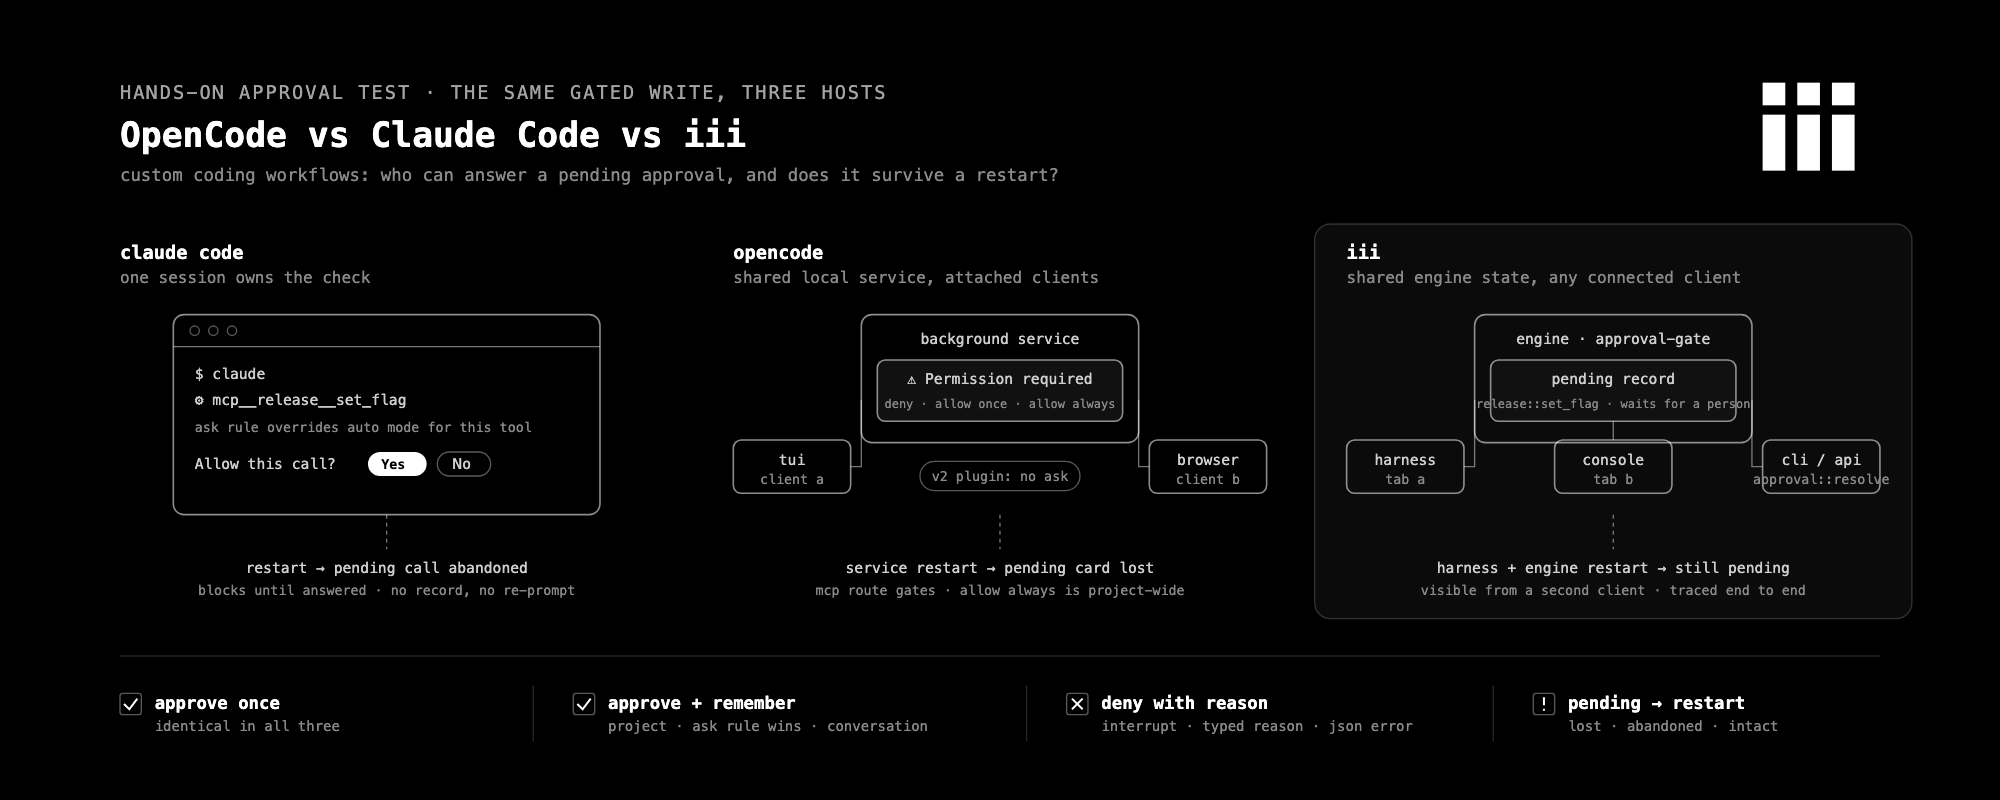
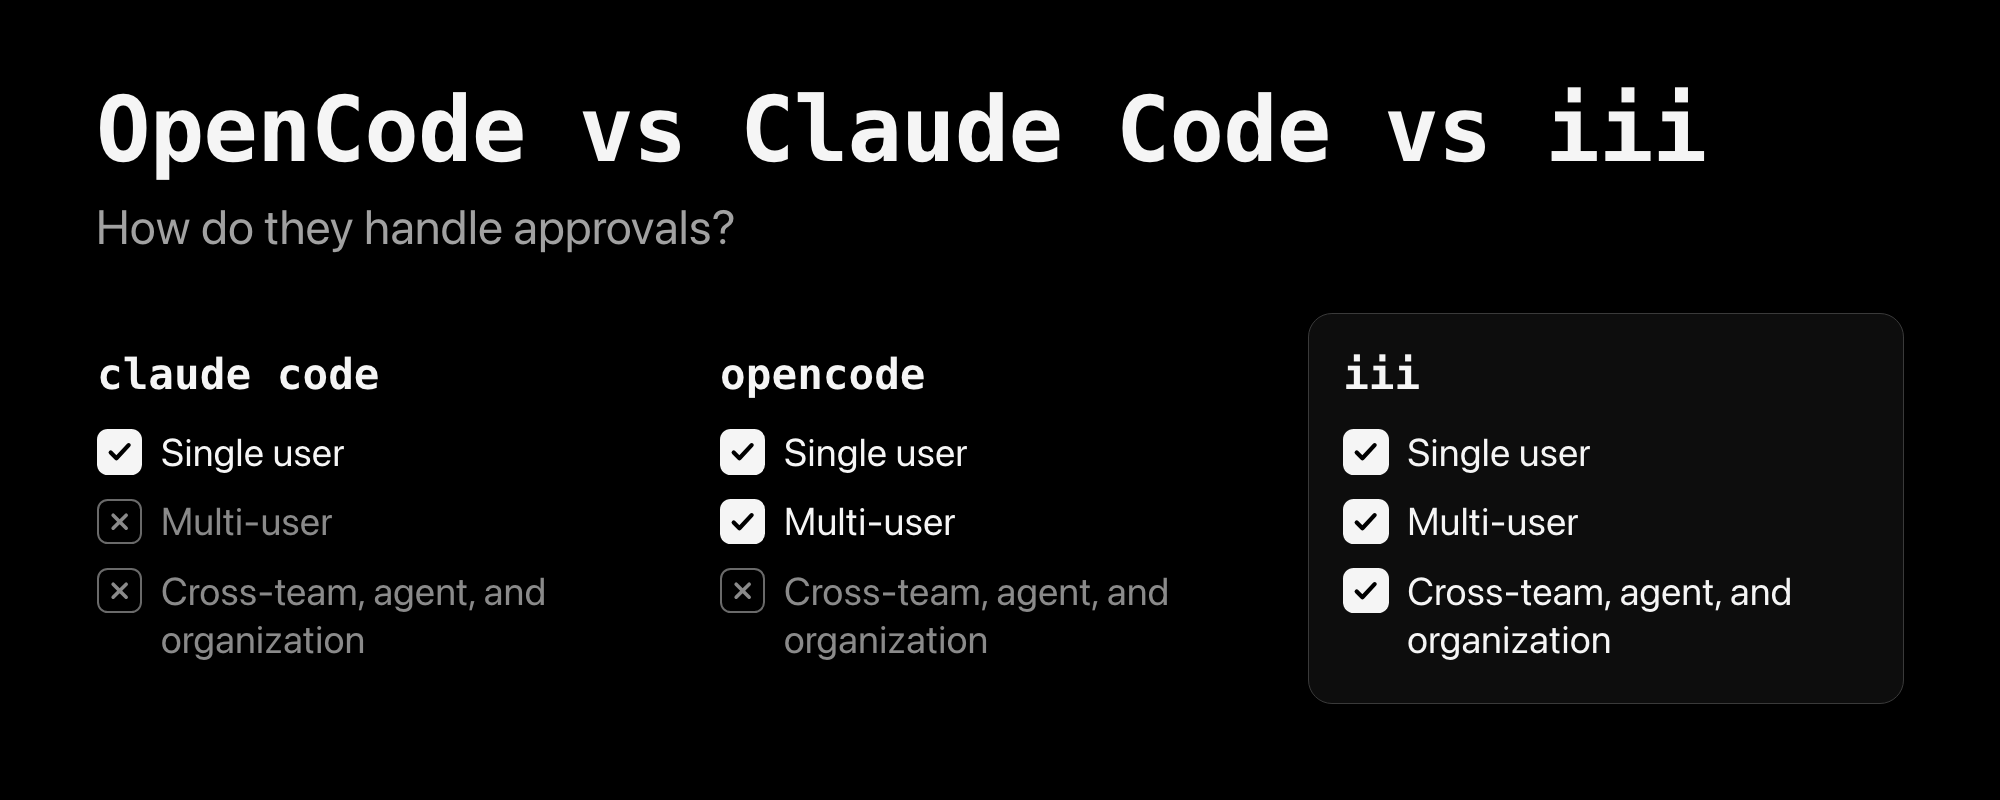
docs(website): redraw the comparison cover as a short checklist
The cover was dense with diagram labels and small type. It now carries only
the title, "How do they handle approvals?", and three checks per tool (single
user, multi-user, cross-team, agent, and organization) in large black and
white type. The alt text describes the new image.

diff --git a/website/content/blog/opencode-vs-claude-code-vs-iii.md b/website/content/blog/opencode-vs-claude-code-vs-iii.md
@@ -18,7 +18,7 @@ faq:
     a: 'In our test only iii did. A held call in iii became a pending record in shared engine state and survived both an AI Agent Harness restart and a full engine restart. OpenCode lost a pending approval on a service restart, and killing Claude Code abandoned the stuck call with no re-prompt.'
 ---
 
-![OpenCode vs Claude Code vs iii: where the approval lives decides who can answer it. Claude Code holds it in one session, OpenCode in a shared local service, iii in shared engine state that survives restarts.](../../assets/blog/opencode-vs-claude-code-vs-iii/banner.png)
+![OpenCode vs Claude Code vs iii: how do they handle approvals? Claude Code handles single-user approvals. OpenCode handles single-user and multi-user approvals. iii handles single-user, multi-user, and cross-team, agent, and organization approvals.](../../assets/blog/opencode-vs-claude-code-vs-iii/banner.png)
 
 Your agent edits files and runs tests without any help. It can even call sensitive functions with potentially destructive results (for example, deleting files or changing production data).
 
